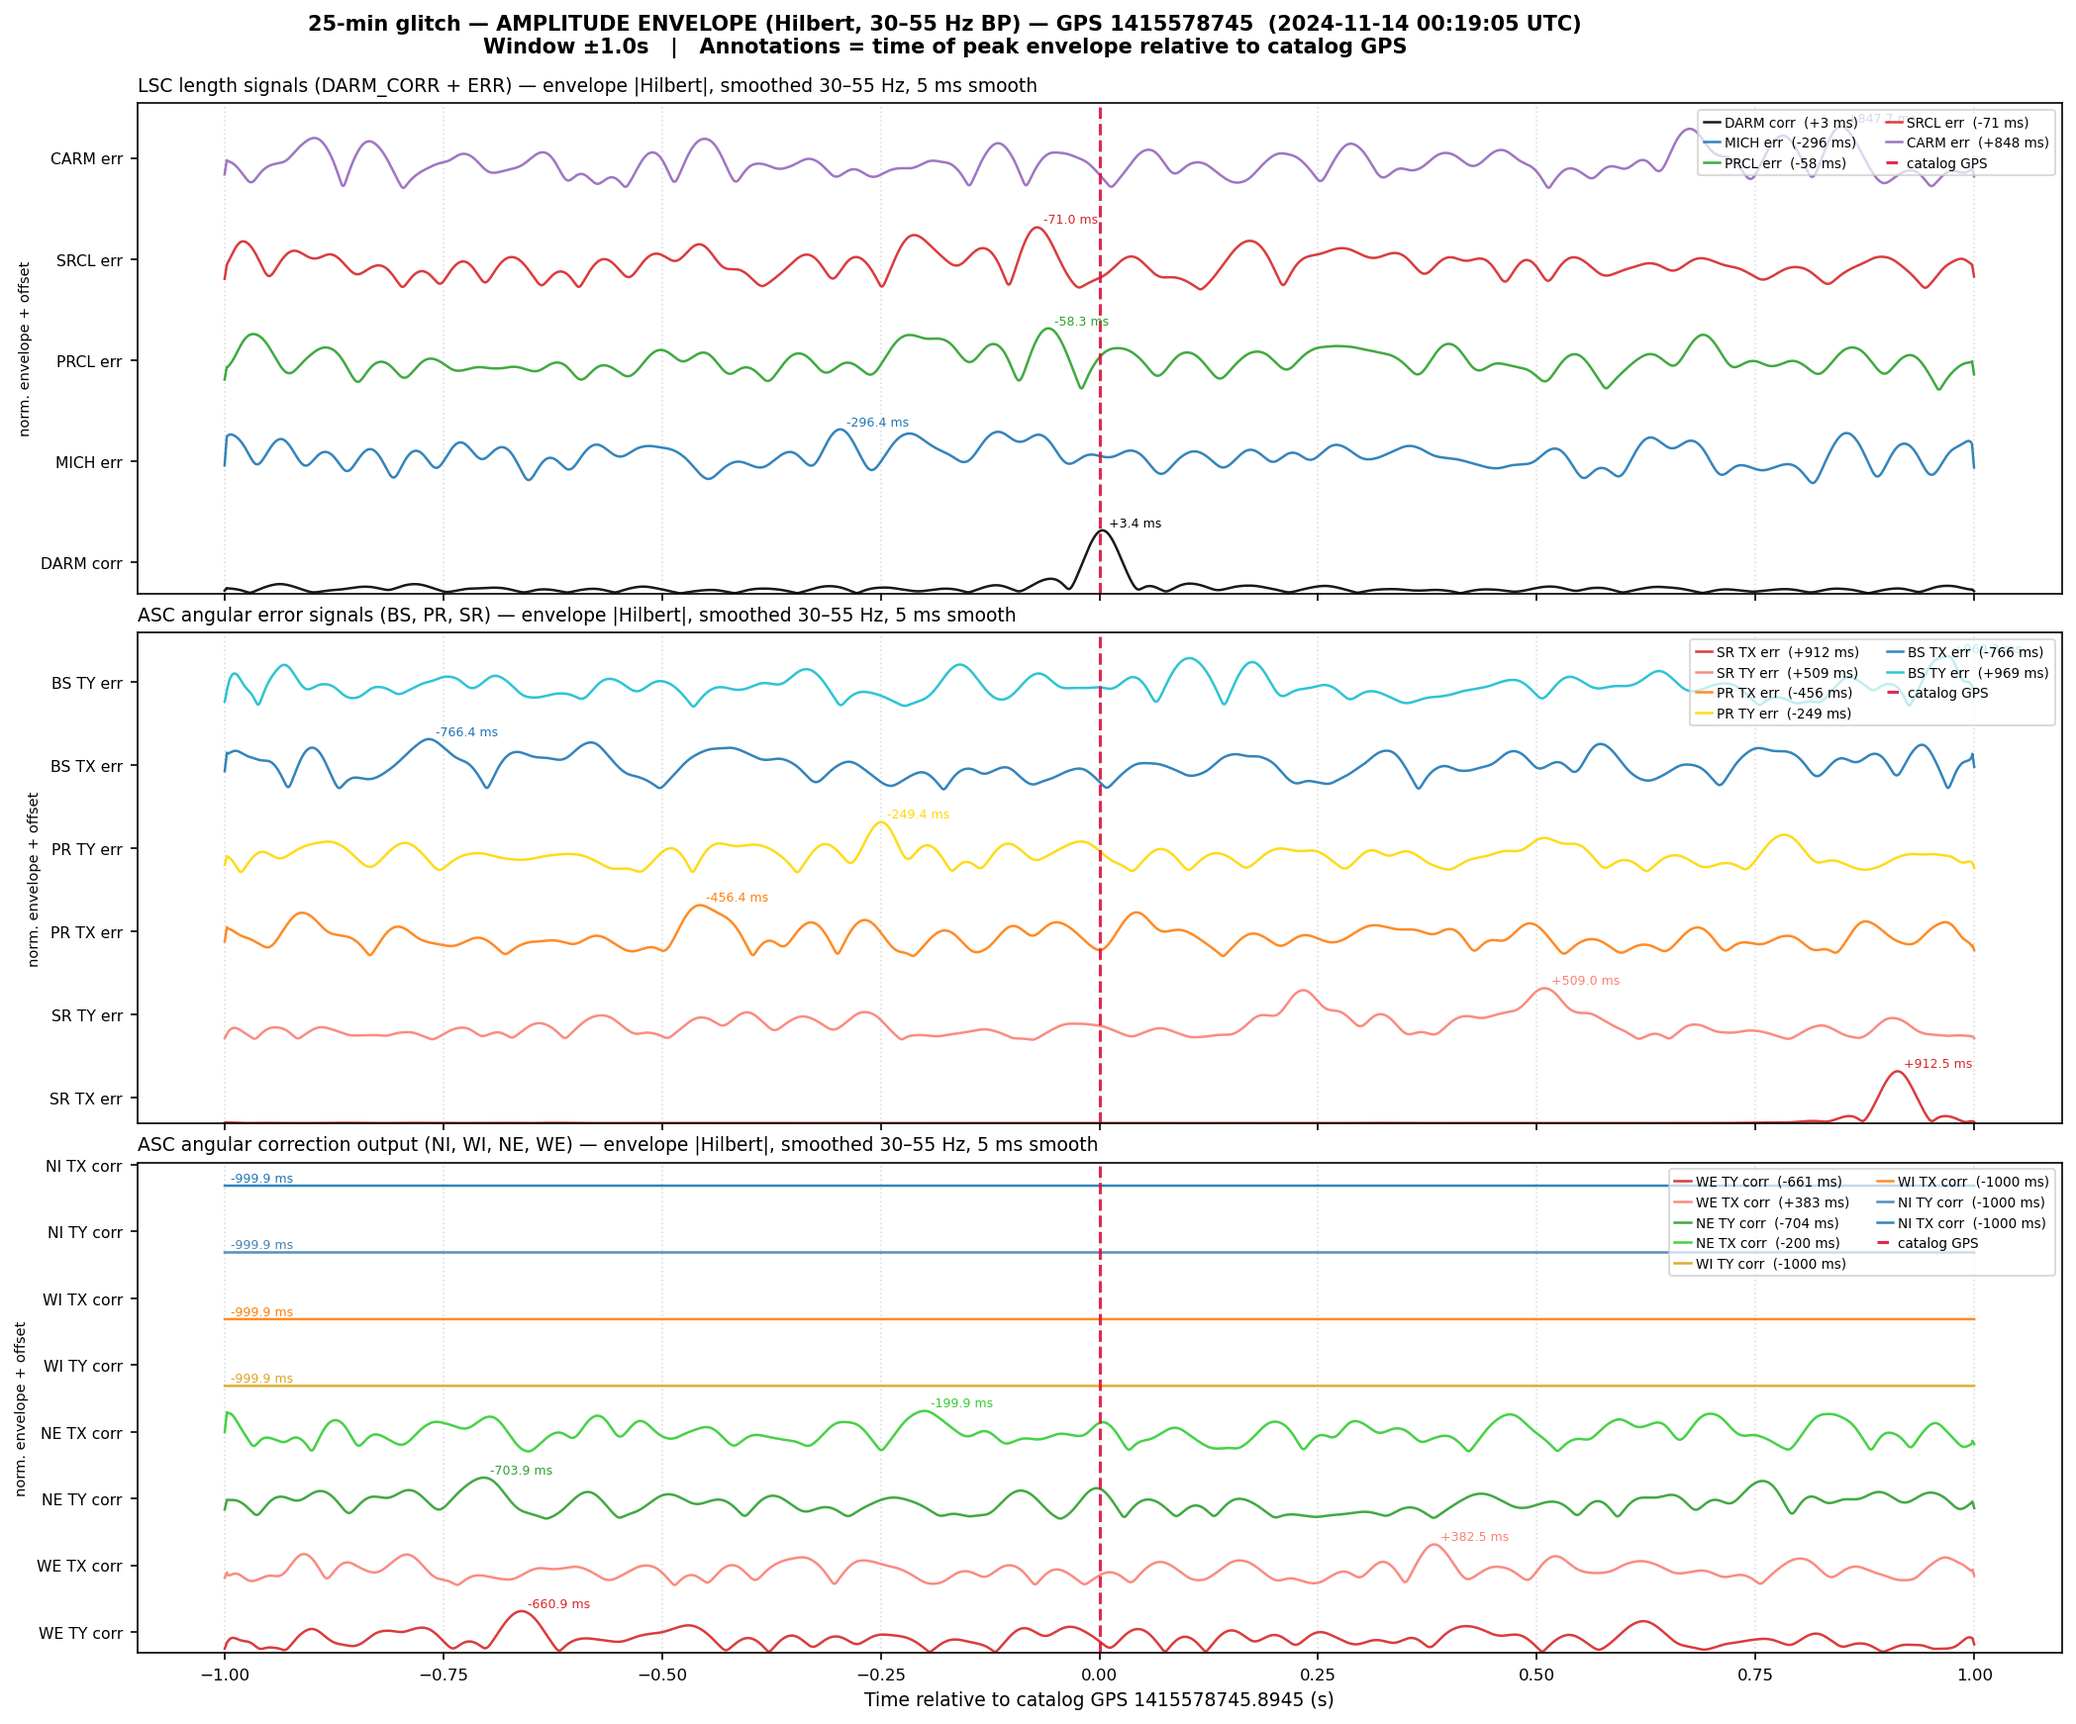
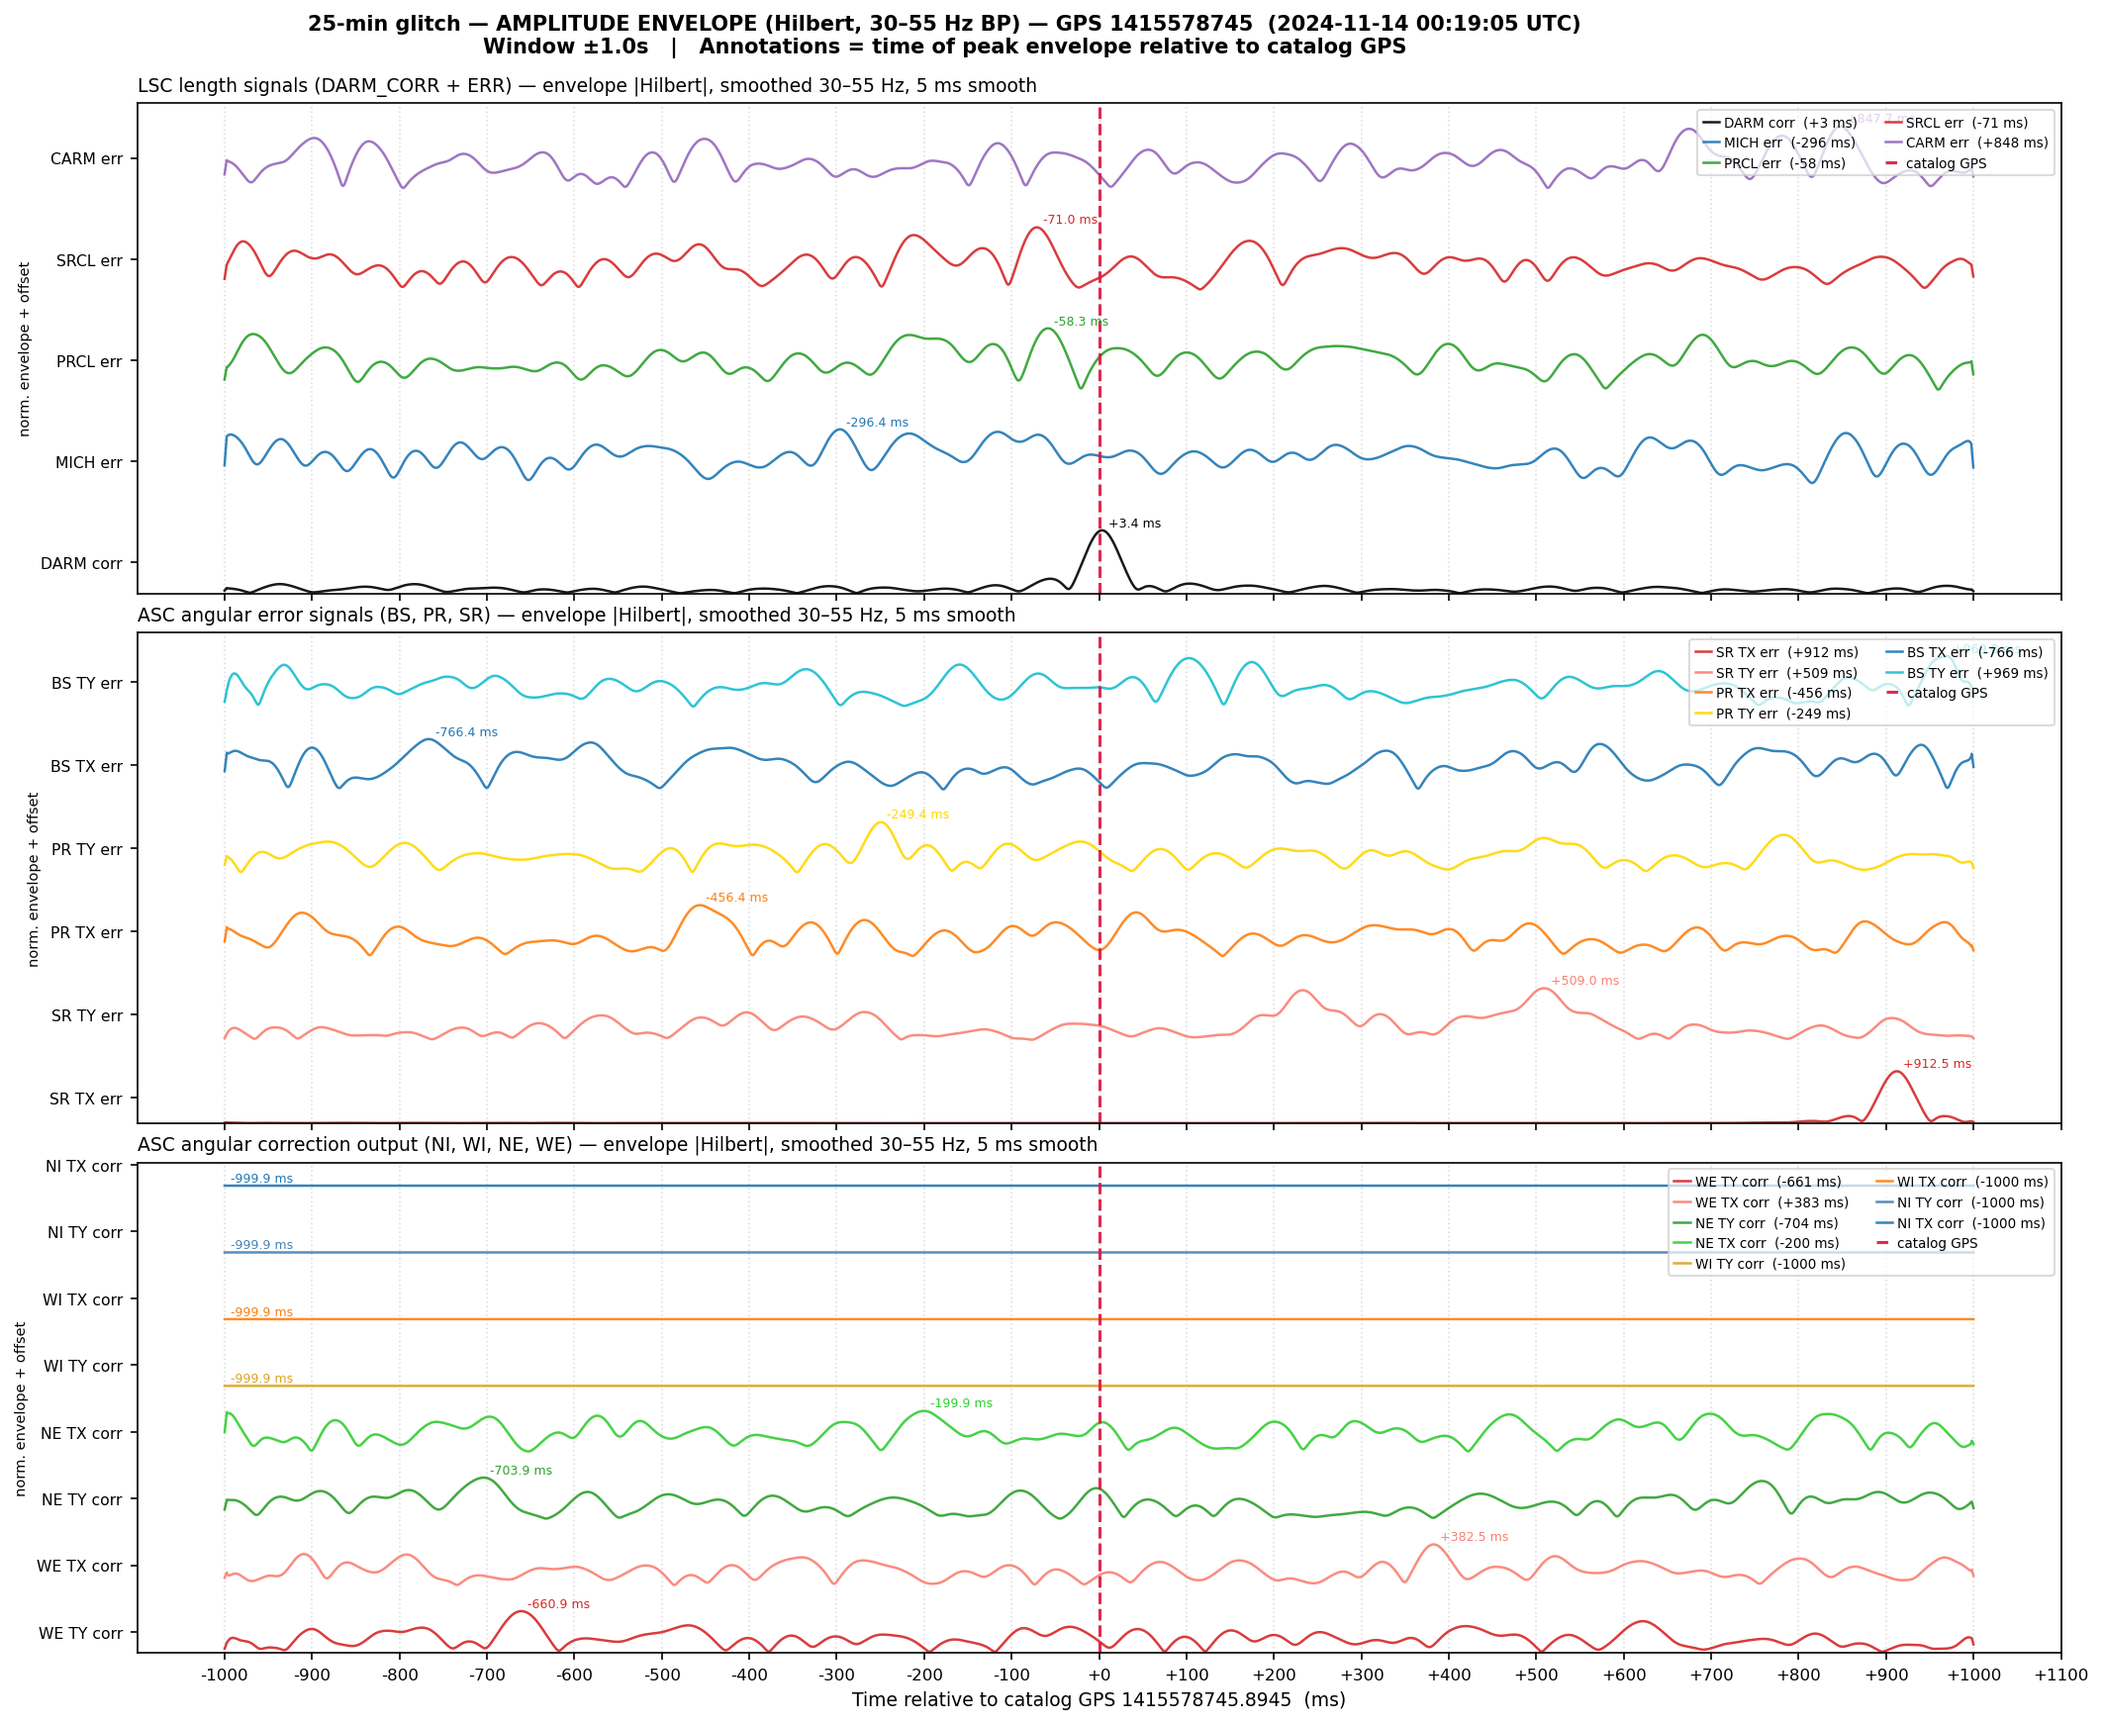
style: explicit ms x-axis ticks on all ASC/LSC glitch plots
Zoomed windows (±100 ms, ±25 ms) now plot time in milliseconds with
explicit signed ticks every 10 ms / 5 ms. Envelope plots use 100 ms
ticks (±1000 ms) and overlay uses 50 ms ticks (±500 ms). The 2s
overview keeps seconds. All x-axis labels include the unit (ms or s).

diff --git a/scripts/plot_asc_glitch_filtered.py b/scripts/plot_asc_glitch_filtered.py
@@ -110,9 +110,13 @@ glitch_utc = GPS_EPOCH + pd.to_timedelta(glitch_t, unit="s")
 
 PANELS_ORDER = ["LSC", "ASC_ERR", "ASC_CORR"]
 
+# x-axis tick spacing per window: (window_s, tick_step_ms)
+XTICK_STEP = {0.5: 100, 0.10: 10, 0.025: 5}
+
 for win, suffix in [(0.5, "1s"), (0.10, "200ms"), (0.025, "50ms")]:
     t0 = glitch_t - win
     t1 = glitch_t + win
+    use_ms = win <= 0.10   # plot in ms for zoomed windows
 
     fig, axes = plt.subplots(3, 1, figsize=(16, 12), sharex=True)
     fig.subplots_adjust(hspace=0.08, top=0.93, bottom=0.06, left=0.16, right=0.97)
@@ -125,7 +129,8 @@ for win, suffix in [(0.5, "1s"), (0.10, "200ms"), (0.025, "50ms")]:
                 continue
             t_arr, v_arr, fs, *_ = traces[col]
             mask = (t_arr >= t0) & (t_arr <= t1)
-            t_plot = t_arr[mask] - glitch_t
+            t_rel = t_arr[mask] - glitch_t
+            t_plot = t_rel * 1e3 if use_ms else t_rel
             v_plot = v_arr[mask]
             if len(t_plot) < 2:
                 continue
@@ -134,6 +139,13 @@ for win, suffix in [(0.5, "1s"), (0.10, "200ms"), (0.025, "50ms")]:
             ylabels.append(label)
             offset += max(8, np.percentile(np.abs(v_plot), 99) * 2 + 2)
 
+        # explicit x ticks at round ms (or s) values
+        step = XTICK_STEP[win]
+        win_plot = win * 1e3 if use_ms else win
+        xt = np.arange(-win_plot, win_plot + step * 0.01, step)
+        ax.set_xticks(xt)
+        ax.set_xticklabels([f"{v:+.0f}" for v in xt], fontsize=8)
+
         ax.set_yticks(yticks)
         ax.set_yticklabels(ylabels, fontsize=7.5)
         ax.axvline(0, color="crimson", lw=1.5, ls="--", alpha=0.9, label="catalog GPS")
@@ -141,14 +153,15 @@ for win, suffix in [(0.5, "1s"), (0.10, "200ms"), (0.025, "50ms")]:
                   ncol=2, handlelength=1.2, handletextpad=0.4, borderpad=0.4)
         ax.set_title(PANEL_TITLES[panel_key], fontsize=9, loc="left")
         ax.grid(axis="x", ls=":", alpha=0.4)
-        ax.tick_params(axis="x", labelsize=8)
         ax.set_ylabel("norm. units + offset", fontsize=7)
 
-    axes[-1].set_xlabel(f"Time relative to catalog GPS {glitch_t:.4f} (s)", fontsize=9)
+    unit = "ms" if use_ms else "s"
+    axes[-1].set_xlabel(
+        f"Time relative to catalog GPS {glitch_t:.4f}  ({unit})", fontsize=9)
     fig.suptitle(
         f"25-min glitch — BANDPASSED 30–55 Hz — GPS {GLITCH_GPS}  "
         f"({glitch_utc.strftime('%Y-%m-%d %H:%M:%S UTC')})\n"
-        f"Window ±{win}s",
+        f"Window ±{win*1e3:.0f} ms",
         fontsize=10, fontweight="bold", y=0.98)
 
     out = OUT_DIR / f"asc_glitch_filtered_{GLITCH_GPS}_{suffix}.png"
@@ -221,9 +234,10 @@ for ax, panel_key in zip(axes_env, PANELS_ORDER):
             env_norm = env
         # Find envelope peak time (for annotation)
         peak_t = t_seg[np.argmax(env_norm)]
-        ax.plot(t_seg, env_norm + offset, lw=1.2, color=color, alpha=0.9,
+        t_ms = t_seg * 1e3
+        ax.plot(t_ms, env_norm + offset, lw=1.2, color=color, alpha=0.9,
                 label=f"{label}  ({peak_t*1e3:+.0f} ms)")
-        ax.annotate(f"{peak_t*1e3:+.1f} ms", xy=(peak_t, env_norm.max() + offset),
+        ax.annotate(f"{peak_t*1e3:+.1f} ms", xy=(peak_t*1e3, env_norm.max() + offset),
                     xytext=(3, 2), textcoords="offset points",
                     fontsize=6, color=color, clip_on=True)
         yticks.append(offset + 0.5)
@@ -238,12 +252,14 @@ for ax, panel_key in zip(axes_env, PANELS_ORDER):
     ax.set_title(PANEL_TITLES[panel_key].replace("bandpassed", "envelope |Hilbert|, smoothed")
                  .replace("30–55 Hz", f"30–55 Hz, {ENV_SMOOTH_MS} ms smooth"),
                  fontsize=9, loc="left")
+    xt_env = np.arange(-ENV_WIN * 1e3, ENV_WIN * 1e3 + 100.01, 100)
+    ax.set_xticks(xt_env)
+    ax.set_xticklabels([f"{v:+.0f}" for v in xt_env], fontsize=8)
     ax.grid(axis="x", ls=":", alpha=0.4)
-    ax.tick_params(axis="x", labelsize=8)
     ax.set_ylabel("norm. envelope + offset", fontsize=7)
     ax.set_ylim(bottom=0)
 
-axes_env[-1].set_xlabel(f"Time relative to catalog GPS {glitch_t:.4f} (s)", fontsize=9)
+axes_env[-1].set_xlabel(f"Time relative to catalog GPS {glitch_t:.4f}  (ms)", fontsize=9)
 fig_env.suptitle(
     f"25-min glitch — AMPLITUDE ENVELOPE (Hilbert, 30–55 Hz BP) — GPS {GLITCH_GPS}  "
     f"({glitch_utc.strftime('%Y-%m-%d %H:%M:%S UTC')})\n"
@@ -300,6 +316,9 @@ ax_ov.axvline(0, color="crimson", lw=2, ls="--", alpha=0.9, label="catalog GPS")
 ax_ov.set_xlabel("Time relative to catalog GPS (ms)", fontsize=10)
 ax_ov.set_ylabel("Normalised amplitude envelope  (peak = 1)", fontsize=9)
 ax_ov.set_xlim(-OVL_WIN * 1e3, OVL_WIN * 1e3)
+xt_ov = np.arange(-OVL_WIN * 1e3, OVL_WIN * 1e3 + 50.01, 50)
+ax_ov.set_xticks(xt_ov)
+ax_ov.set_xticklabels([f"{v:+.0f}" for v in xt_ov], fontsize=9)
 ax_ov.set_ylim(0, 1.15)
 ax_ov.grid(ls=":", alpha=0.4)
 ax_ov.legend(fontsize=8, ncol=2, loc="upper left")

diff --git a/scripts/plot_asc_glitch_probe.py b/scripts/plot_asc_glitch_probe.py
@@ -71,14 +71,14 @@ def normalise(series, robust=True):
         sigma = v.std() if v.std() > 0 else 1.0
     return (series - med) / sigma
 
-def plot_panel(ax, groups, df_win, title, glitch_t, lw=0.8, alpha=0.9):
-    """Plot normalised channels on one axes."""
+def plot_panel(ax, groups, df_win, title, glitch_t, lw=0.8, alpha=0.9, scale=1.0):
+    """Plot normalised channels on one axes. scale=1e3 for ms x-axis."""
     offset = 0
     yticks, ylabels = [], []
     for label, col, color in groups:
         if col not in df_win.columns:
             continue
-        t = df_win.index.values - glitch_t   # seconds relative to glitch
+        t = (df_win.index.values - glitch_t) * scale
         y = normalise(df_win[col])
         if y.isna().all():
             continue
@@ -95,33 +95,48 @@ def plot_panel(ax, groups, df_win, title, glitch_t, lw=0.8, alpha=0.9):
     ax.grid(axis="x", ls=":", alpha=0.4)
     ax.tick_params(axis="x", labelsize=8)
 
+PROBE_XTICK_STEP = {(1.0, 1.0): 500, (0.10, 0.10): 10, (0.025, 0.025): 5}
+
 def make_figure(win_before, win_after, suffix):
     t0 = glitch_t - win_before
     t1 = glitch_t + win_after
     df_win = df.loc[t0:t1].copy()
+    use_ms = win_before <= 0.10
 
     n_panels = 3
     fig, axes = plt.subplots(n_panels, 1, figsize=(16, 4 * n_panels), sharex=True)
     fig.subplots_adjust(hspace=0.10, top=0.93, bottom=0.07, left=0.16, right=0.97)
 
+    # build time arrays in the right unit for each panel function
+    scale = 1e3 if use_ms else 1.0
+
     plot_panel(axes[0], LSC_CHANS,      df_win,
                "LSC length error signals (DARM / MICH / PRCL / SRCL / CARM)",
-               glitch_t)
+               glitch_t, scale=scale)
 
     plot_panel(axes[1], ASC_ERR_CHANS,  df_win,
                "ASC angular error signals — BS, PR, SR",
-               glitch_t)
+               glitch_t, scale=scale)
 
     plot_panel(axes[2], ASC_CORR_CHANS, df_win,
                "ASC angular correction output — NI, WI, NE, WE  (no direct ERR available)",
-               glitch_t)
+               glitch_t, scale=scale)
 
-    axes[-1].set_xlabel("Time relative to glitch (s)", fontsize=9)
+    # explicit x ticks
+    step = PROBE_XTICK_STEP.get((win_before, win_after), 100)
+    win_plot = win_before * scale
+    xt = np.arange(-win_plot, win_plot + step * 0.01, step)
+    for ax in axes:
+        ax.set_xticks(xt)
+        ax.set_xticklabels([f"{v:+.0f}" for v in xt], fontsize=8)
+
+    unit = "ms" if use_ms else "s"
+    axes[-1].set_xlabel(f"Time relative to catalog GPS {glitch_t:.4f}  ({unit})", fontsize=9)
 
     glitch_utc = GPS_EPOCH + pd.to_timedelta(glitch_t, unit="s")
     fig.suptitle(
-        f"25-min glitch propagation — GPS {glitch_t}  ({glitch_utc.strftime('%Y-%m-%d %H:%M:%S UTC')})\n"
-        f"Window: −{win_before}s to +{win_after}s   |   All traces: normalised (zero-mean, unit robust-σ) + offset",
+        f"25-min glitch propagation — GPS {glitch_t:.4f}  ({glitch_utc.strftime('%Y-%m-%d %H:%M:%S UTC')})\n"
+        f"Window: −{win_before*1e3:.0f} ms to +{win_after*1e3:.0f} ms   |   All traces: normalised + offset",
         fontsize=10, fontweight="bold", y=0.98)
 
     out = OUT_DIR / f"asc_glitch_probe_{GLITCH_GPS}_{suffix}.png"
